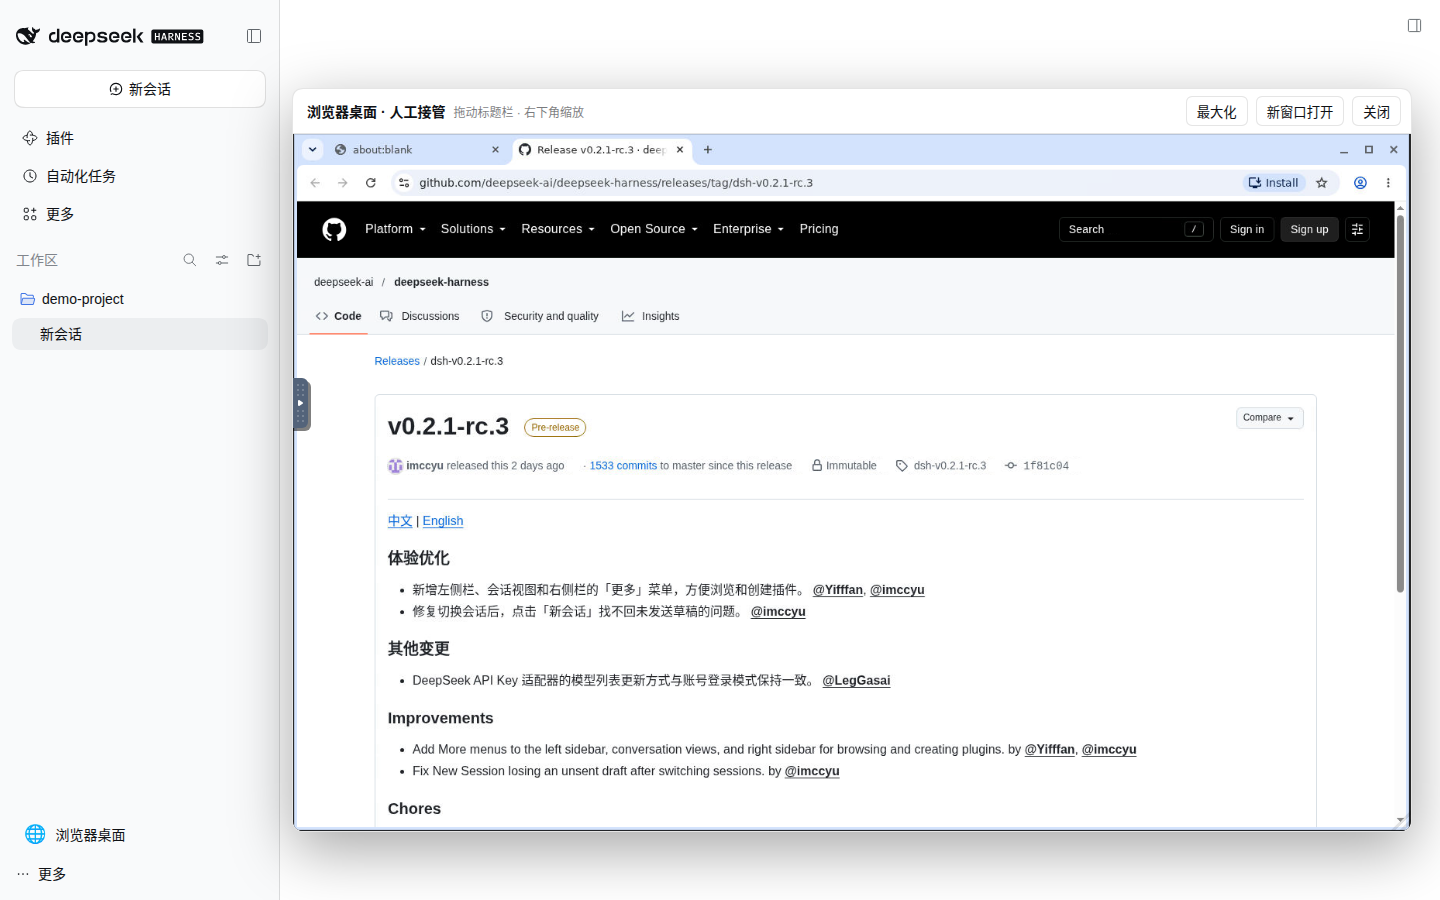
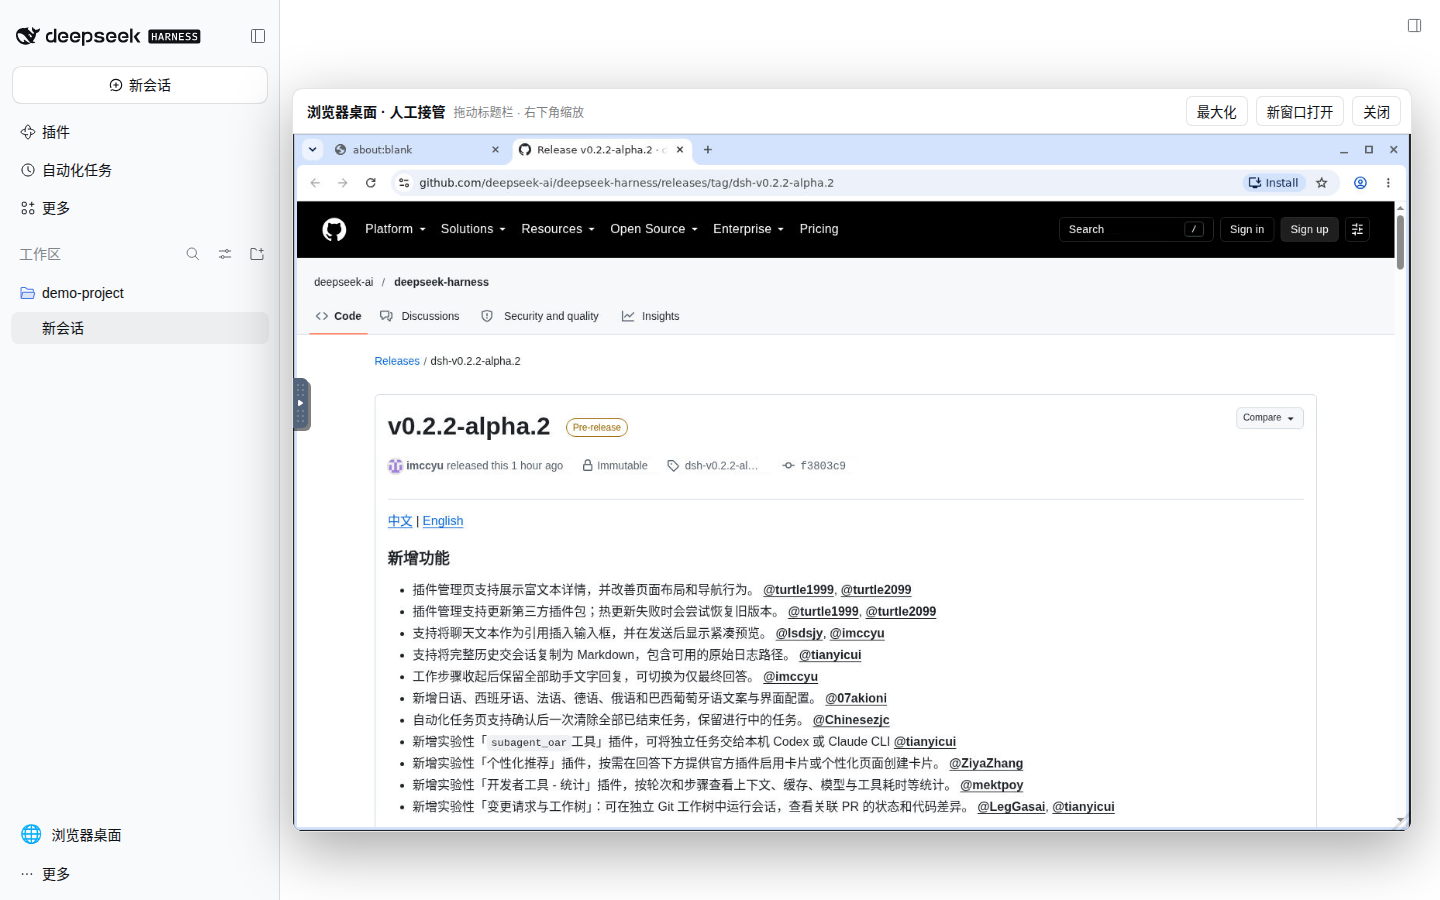
docs: refresh 0.2.2-alpha.2 Light screenshots

diff --git a/assets/README.md b/assets/README.md
@@ -1,19 +1,19 @@
 # Assets
 
-All three screenshots were captured on **2026-10-26**, using the actual **DSH 0.2.1-rc.3** Web UI in **Light** mode at **1440 × 900** pixels. Playwright controlled the maintained Chrome on an isolated Ubuntu CI runner to capture a clean, temporary market-variant container; the user's existing deployment, model configuration, workspaces, and sessions were not used or changed.
+All three screenshots were captured on **2026-10-28**, using the actual **DSH 0.2.2-alpha.2** Web UI in **Light** mode at **1440 × 900** pixels. Playwright controlled the maintained Chrome on an isolated Ubuntu CI runner to capture a clean, temporary market-variant container; the user's existing deployment, model configuration, workspaces, and sessions were not used or changed.
 
 | Asset | Image / component | View |
 | --- | --- | --- |
-| `deepseek-harness-web.png` | `runzhliu/deepseek-harness:0.2.1-rc.3-r1-market.1` | New-session page with an empty `demo-project` workspace, Plugins, More, and Automation tasks. The core Web UI is shared with the default image. |
-| `browser-desktop-webui.png` | Same market image; `@runzhliu/dsh-browser-desktop@0.1.5` | Real container Chromium opening the public official `dsh-v0.2.1-rc.3` GitHub Release inside the movable, resizable desktop panel. |
+| `deepseek-harness-web.png` | `runzhliu/deepseek-harness:0.2.2-alpha.2-r1-market.1` | New-session page with an empty `demo-project` workspace, Plugins, More, and Automation tasks. The core Web UI is shared with the default image. |
+| `browser-desktop-webui.png` | Same market image; `@runzhliu/dsh-browser-desktop@0.1.6` | Real container Chromium opening the public official `dsh-v0.2.2-alpha.2` GitHub Release inside the movable, resizable desktop panel. |
 | `plugin-market-webui.png` | Same market image; `dshmarket@1.66.9` | Settings → Plugin market → Discover. This optional community market is not included in the default image. |
 
 ## Capture notes
 
-- Reproduce with the manually dispatched [`capture-readme.yml`](../.github/workflows/capture-readme.yml) workflow. These assets came from [run 40256266849](https://github.com/runzhliu/deepseek-harness-docker/actions/runs/40256266849); [`capture-provenance.json`](capture-provenance.json) records the runtime, image revision, browser version, capture time, and completed UI checks.
+- Reproduce with the manually dispatched [`capture-readme.yml`](../.github/workflows/capture-readme.yml) workflow. These assets came from [run 40630152346](https://github.com/runzhliu/deepseek-harness-docker/actions/runs/40630152346); [`capture-provenance.json`](capture-provenance.json) records the runtime, image revision, browser version, capture time, and completed UI checks.
 - Use disposable containers with temporary DSH state and an empty demonstration workspace; do not reuse personal volumes or provider credentials.
 - Accept the first-run notice, defer provider setup, select Light in Settings, and open the empty `demo-project` workspace through the normal UI.
-- For the desktop view, navigate the container's Chromium to the public upstream RC3 Release page. Move and resize the overlay with its normal controls; both Harness and the GitHub page use a light theme.
+- For the desktop view, navigate the container's Chromium to the public upstream 0.2.2-alpha.2 Release page. Move and resize the overlay with its normal controls; both Harness and the GitHub page use a light theme.
 - For the market view, wait for the catalog and compatibility indicators to load. Do not install a plugin merely to take the screenshot. Catalog entries, metrics, and compatibility indicators are a dated snapshot, not an endorsement or an installation test.
 - Capture only the page viewport, excluding the host browser's address bar and temporary launch token. Inspect each PNG for secrets, internal endpoints, private paths, and UI errors before replacing the README assets.
 

diff --git a/README.en.md b/README.en.md
@@ -42,7 +42,7 @@ The default image runs the official `@deepseek-ai/dsh` Web UI in a non-root Node
 
 ![DeepSeek Harness Web UI running from this image](assets/deepseek-harness-web.png)
 
-_Light-theme capture (2026-10-26, DSH `0.2.1-rc.3`) from an isolated, empty demo workspace. No personal sessions or credentials are shown. No model was configured and no model call was made._
+_Light-theme capture (2026-10-28, DSH `0.2.2-alpha.2`) from an isolated, empty demo workspace. No personal sessions or credentials are shown. No model was configured and no model call was made._
 
 ## Project status
 
@@ -262,7 +262,7 @@ The public plugin uses Harness's `sidebar.footer.action` and `shell.overlay` ext
 
 ![Movable and resizable Chromium browser embedded in the Harness Web UI](assets/browser-desktop-webui.png)
 
-_Light-theme capture (2026-10-26, DSH `0.2.1-rc.3`, browser-desktop plugin `0.1.5`): the browser panel is inside Harness and displays the official RC3 GitHub Release page._
+_Light-theme capture (2026-10-28, DSH `0.2.2-alpha.2`, browser-desktop plugin `0.1.6`): the browser panel is inside Harness and displays the official 0.2.2-alpha.2 GitHub Release page._
 
 This follows the visible-desktop idea from [`docker-antigravity`](https://github.com/runzhliu/docker-antigravity) without adopting its amd64 base or Selkies. Debian's native packages keep the image usable on both Apple Silicon and x86 Linux. The official [Browser Use architecture](https://github.com/deepseek-ai/deepseek-harness/blob/master/docs/subsystems/browser-use.md) and [Sidebar Browser limitations](https://github.com/deepseek-ai/deepseek-harness/blob/master/packages/client/ui-sidebar-browser/README.md) describe the boundary between these layers. Port 6080 is loopback-only like 3080; the native noVNC endpoint has no authentication and must never be exposed directly. The optional LAN overlay carries the versioned `/novnc-*` route through the same HTTPS and authentication boundary as the Web UI.
 
@@ -318,7 +318,7 @@ The variant has the unambiguous `runzhliu/deepseek-harness:0.2.2-alpha.2-r1-mark
 
 ![Light-theme community plugin market in the optional market image](assets/plugin-market-webui.png)
 
-_Captured from the optional market image (2026-10-26, DSH `0.2.1-rc.3`, `dshmarket@1.66.9`); this page is absent from the default image. Catalog entries and compatibility indicators change over time. This screenshot shows browsing only; none of the displayed plugins were installed._
+_Captured from the optional market image (2026-10-28, DSH `0.2.2-alpha.2`, `dshmarket@1.66.9`); this page is absent from the default image. Catalog entries and compatibility indicators change over time. This screenshot shows browsing only; none of the displayed plugins were installed._
 
 The market package itself is pinned and copied at build time. Plugins installed through it and the pnpm store persist in the `dsh-home` volume. Installation needs container egress to npm/GitHub, and third-party build scripts should remain blocked until separately reviewed and approved. One-click market restart is disabled; apply lifecycle changes with `docker compose restart` or a Kubernetes rollout.
 

diff --git a/README.md b/README.md
@@ -42,7 +42,7 @@
 
 ![DeepSeek Harness 浅色 Web UI：新版首页与导航](assets/deepseek-harness-web.png)
 
-_浅色界面实拍（2026-10-26，DSH `0.2.1-rc.3`）。使用独立空白演示工作区，不包含个人会话或凭据，未配置模型，也未发起模型调用。_
+_浅色界面实拍（2026-10-28，DSH `0.2.2-alpha.2`）。使用独立空白演示工作区，不包含个人会话或凭据，未配置模型，也未发起模型调用。_
 
 ## 项目状态
 
@@ -261,7 +261,7 @@ docker compose --env-file .env.lan -f compose.yaml -f compose.lan.yaml \
 
 ![Harness WebUI 中可移动、缩放的内嵌 Chromium 浏览器](assets/browser-desktop-webui.png)
 
-_浅色界面实拍（2026-10-26，DSH `0.2.1-rc.3`、浏览器桌面插件 `0.1.5`）：浏览器浮窗位于 Harness WebUI 内，图中打开的是官方 RC3 GitHub Release 页面。_
+_浅色界面实拍（2026-10-28，DSH `0.2.2-alpha.2`、浏览器桌面插件 `0.1.6`）：浏览器浮窗位于 Harness WebUI 内，图中打开的是官方 0.2.2-alpha.2 GitHub Release 页面。_
 
 该实现参考了 [`docker-antigravity`](https://github.com/runzhliu/docker-antigravity) 的可视桌面思路，但没有采用其 `amd64` 基础镜像和 Selkies，而是使用 Debian 原生架构软件包，因此 Apple Silicon 与 x86 Linux 均可运行。官方的 [Browser Use 架构](https://github.com/deepseek-ai/deepseek-harness/blob/master/docs/subsystems/browser-use.md)和 [Sidebar Browser 限制](https://github.com/deepseek-ai/deepseek-harness/blob/master/packages/client/ui-sidebar-browser/README.md)说明了两类浏览器能力的边界。6080 与 3080 一样只绑定宿主机回环地址；noVNC 原生端口没有认证，不能直接暴露。可选 LAN overlay 会把版本化 `/novnc-*` 路径放到与 WebUI 相同的 HTTPS 和认证入口下。
 
@@ -317,7 +317,7 @@ DSH_WORKSPACE=/absolute/path/to/your/project \
 
 ![可选 market 镜像中的浅色社区插件市场](assets/plugin-market-webui.png)
 
-_可选 market 镜像实拍（2026-10-26，DSH `0.2.1-rc.3`、`dshmarket@1.66.9`）；默认镜像没有此页面。目录与兼容性标记会变化，截图仅浏览，未安装图中插件。_
+_可选 market 镜像实拍（2026-10-28，DSH `0.2.2-alpha.2`、`dshmarket@1.66.9`）；默认镜像没有此页面。目录与兼容性标记会变化，截图仅浏览，未安装图中插件。_
 
 市场自身在构建期固定并打入可选镜像；通过市场安装的插件和 pnpm store 会写入持久化的 `dsh-home` 卷。安装过程需要容器能够访问 npm/GitHub，第三方包的构建脚本仍应在审查后单独授权。市场内的一键重启已禁用，变更需要通过 `docker compose restart` 或 Kubernetes rollout 进入新进程。
 

diff --git a/CHANGELOG.md b/CHANGELOG.md
@@ -10,6 +10,7 @@ All notable changes to this project are documented here.
 - Include upstream plugin updates and rich descriptions, message quotes, conversation Markdown export, additional locales, and mobile, caching and Session-recovery improvements; also include the RC4 ACP diagnostic fix.
 - Document the Node.js 24.9 minimum, Session/tool/PTC integration changes, private-address Web Fetch behavior and explicit custom-model capacity requirements.
 - Extend browser-desktop `0.1.6` peer compatibility to the 0.2.2 client runtime, and require a successful model-catalog RPC response in screenshot verification.
+- Refresh all three README Light screenshots from the published 0.2.2-alpha.2 market image, captured on 2026-10-28 with versioned provenance and draft-recovery verification.
 - Retain loopback authentication, optional HTTPS LAN protection, and immutable Chromium/market pins without modifying upstream source.
 
 ## 0.1.26 - 2026-10-24
